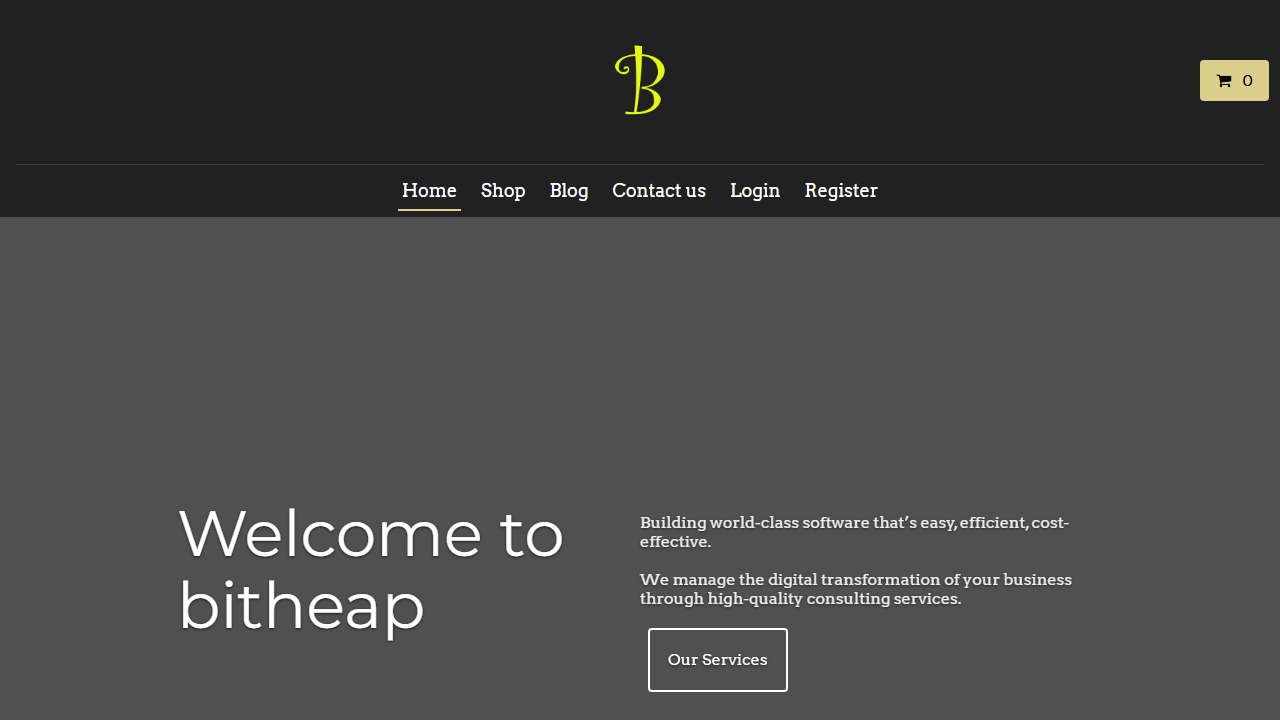
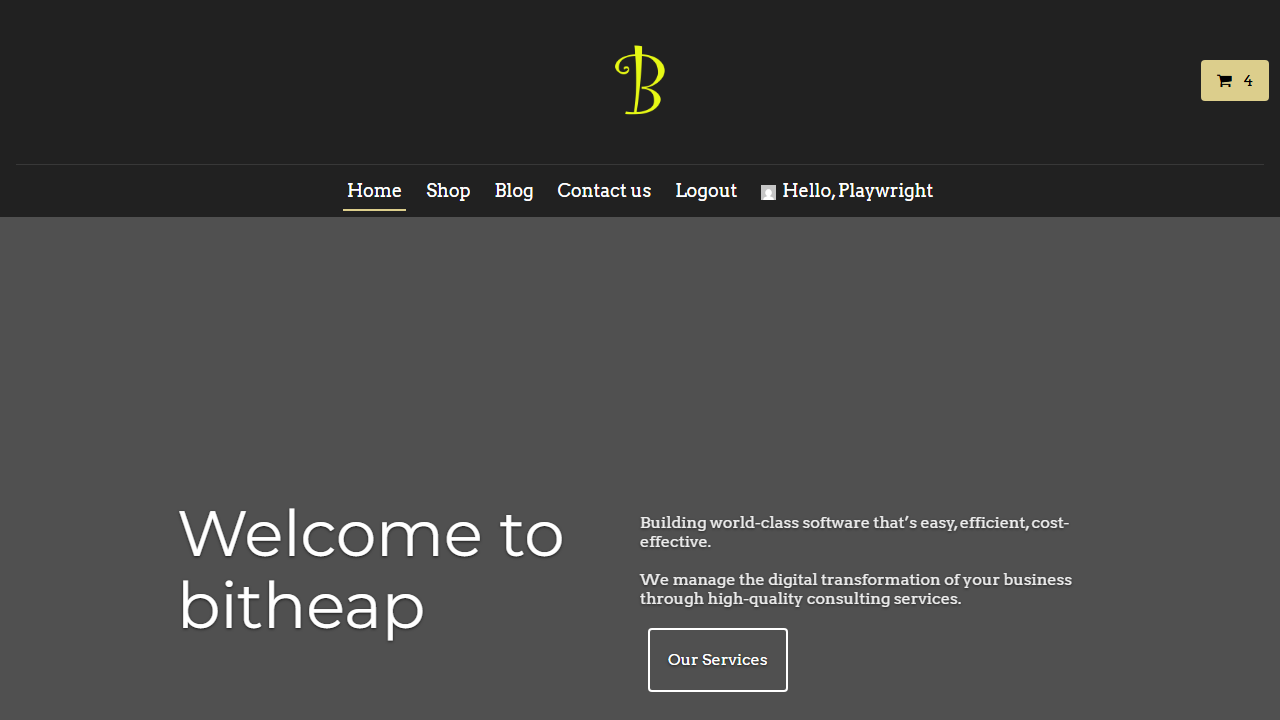
Add authentication test and result tracking with screenshots

Changed region(s): [[0.25, 0.2444, 0.75, 0.275]]

diff --git a/tests/test.spec.js b/tests/test.spec.js
@@ -1,13 +1,14 @@
 const { chromium } = require('playwright');
+const { test } = require('@playwright/test');
 
-(async () => {
-  const browser = await chromium.launch();
-  const page = await browser.newPage();
-  await page.goto('https://bitheap.tech');
-  await page.screenshot({ path: 'screenshot.png' });
-  await authenticate(page);
-  await browser.close();
-})();
+test.describe('BitHeap Authentication Test', () => {
+  test('should authenticate successfully', async ({}) => {
+    const browser = await chromium.launch();
+    const page = await browser.newPage();
+    await authenticate(page);
+    await browser.close();
+  });
+});
 
 async function authenticate(page) {
   await page.goto('https://bitheap.tech');
@@ -18,5 +19,5 @@ async function authenticate(page) {
   const text = await page.locator('#menu-item-2333').textContent()
   if(text != "Hello, Playwright")
     console.error("The authentication was not successful!")
-  await page.screenshot({ path: 'screenshot2.png' });
+  await page.screenshot({ path: 'screenshot.png' });
 }
